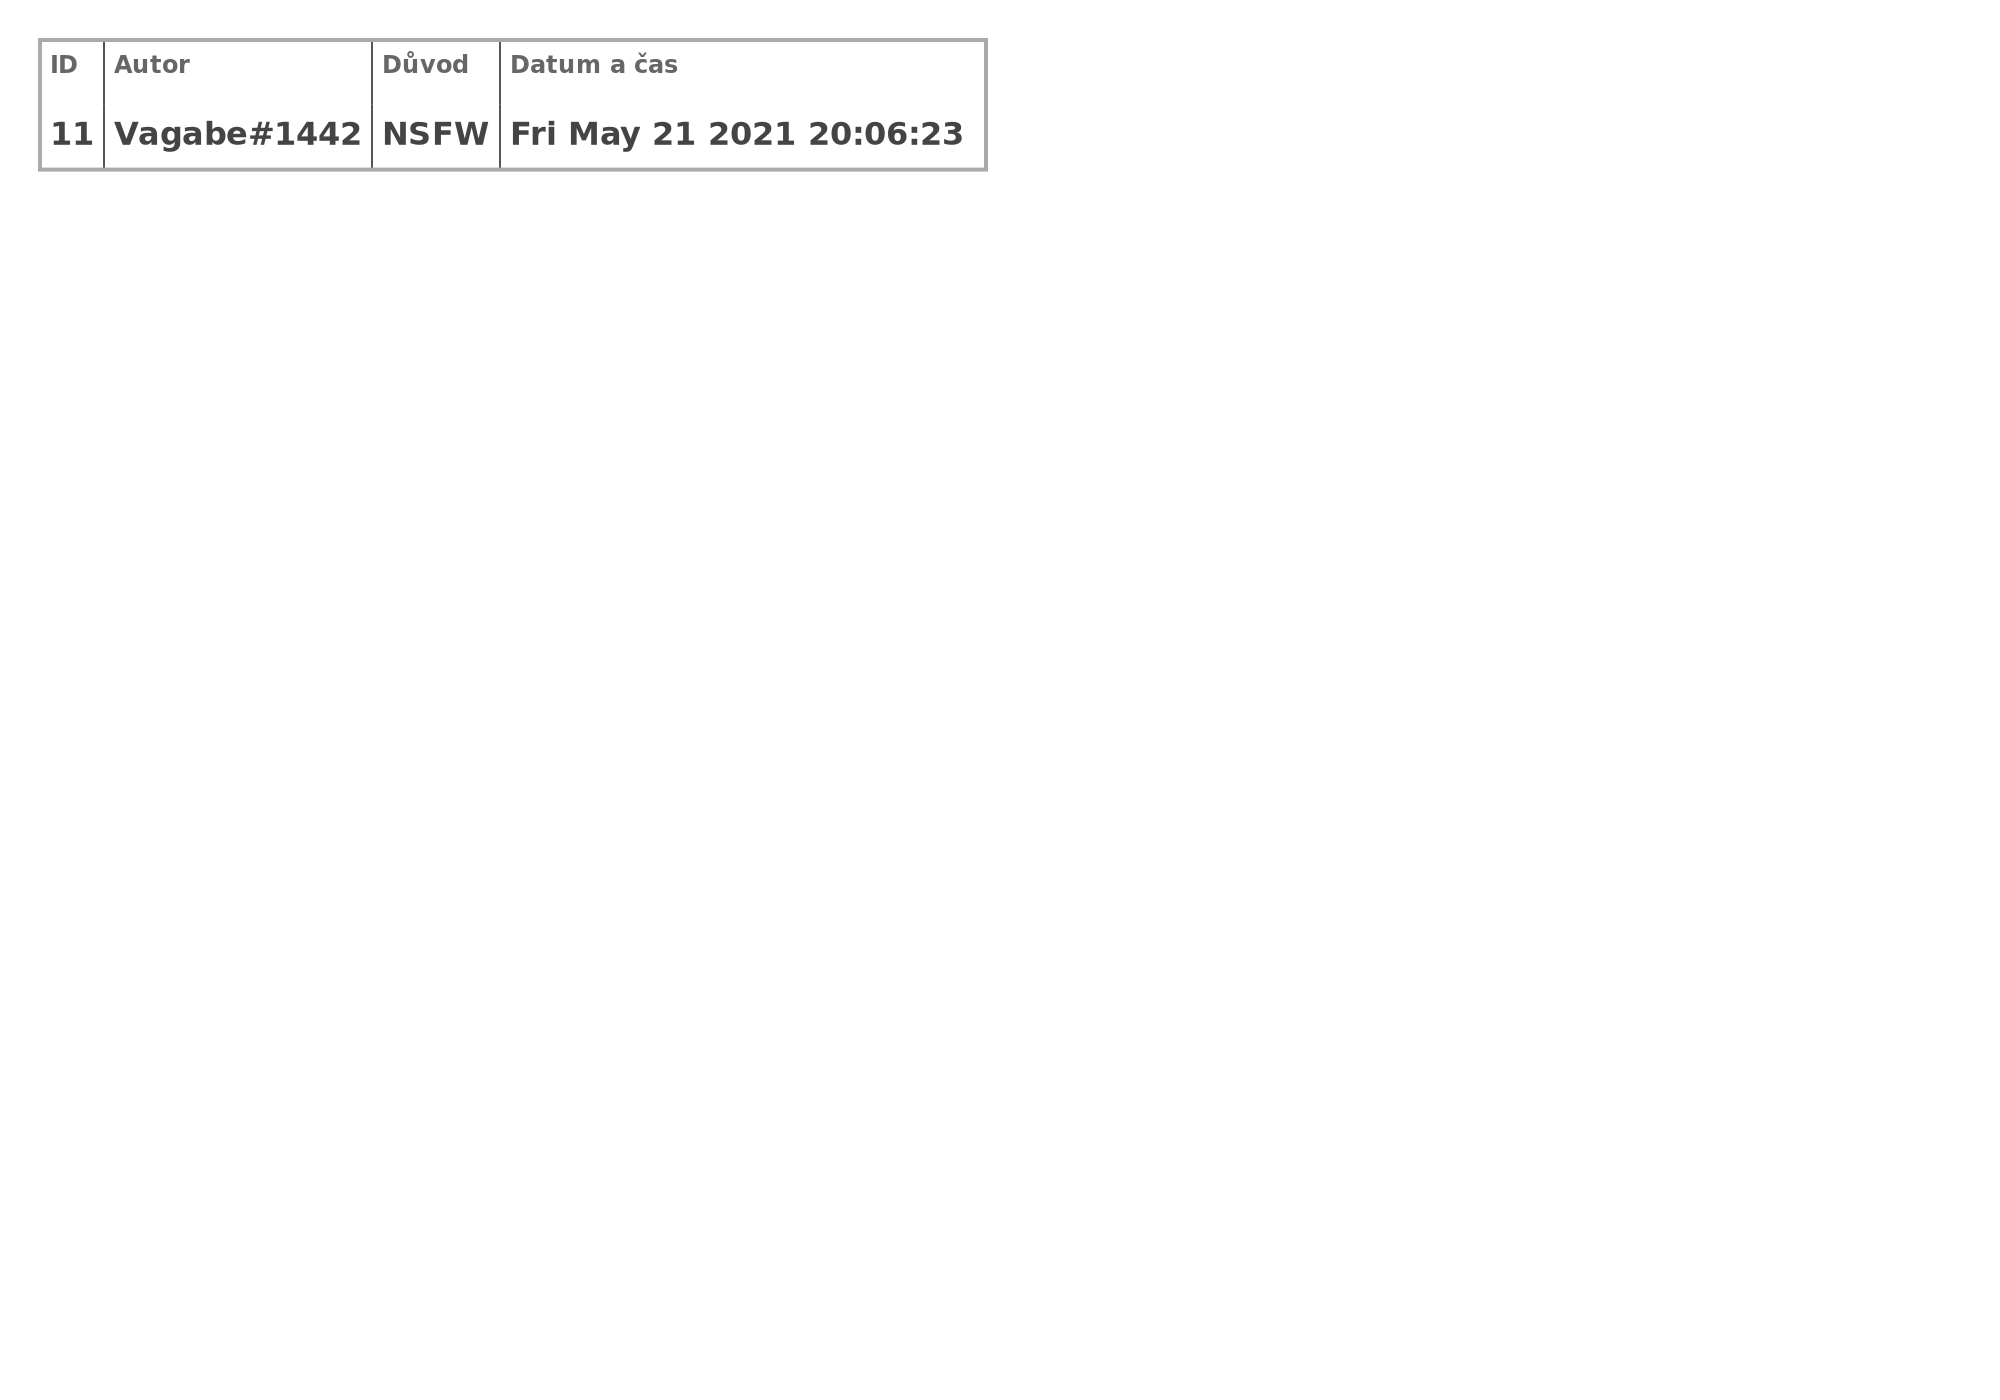
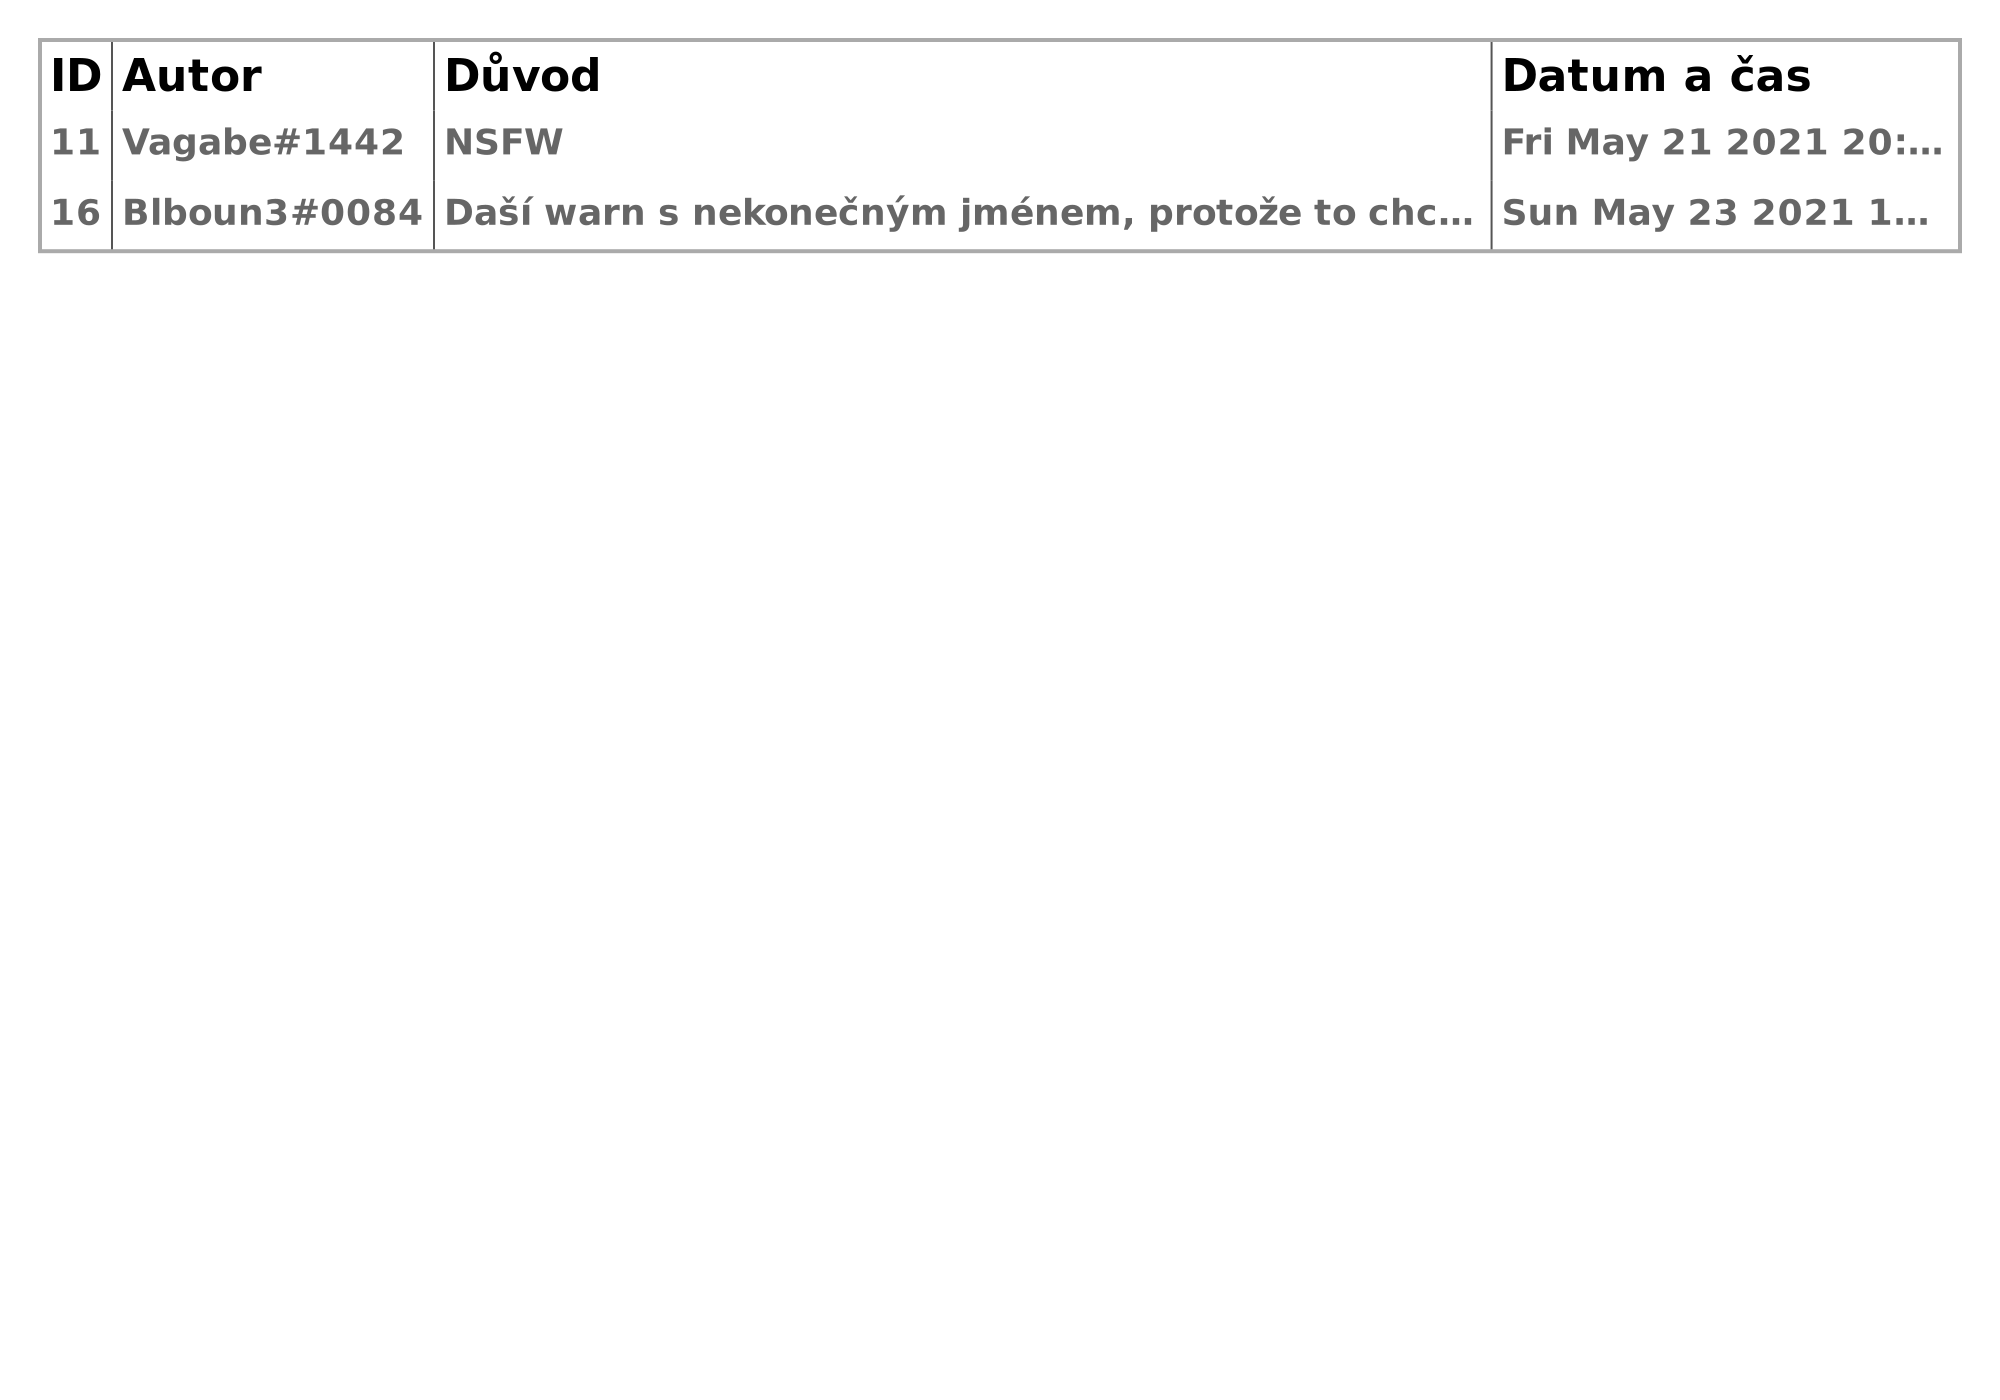
upravil jsem list-warns, místo textu posílá obrázek

Changed region(s): [[0.0, 0.0307, 0.992, 0.1843]]

diff --git a/ImageGeneration/Functions/lwarns.js b/ImageGeneration/Functions/lwarns.js
@@ -34,14 +34,35 @@ async function execute(datain, channel, client) {
         table: { width: 2, color: "#aaa" }
     },
     cell: {
-        fontSize: 16,
+        fontSize: 18,
         fontWeight: "bold",
         fontFamily: "sans-serif",
-        color: "#444444",
+        color: "#666666",
         lineHeight: 1.4,
         padding: 5,
-        textAlign: "left"
-    }
+        textAlign: "left",
+        multiline: true
+    },
+    title: {
+        fontSize: 22,
+        fontWeight: "bold",
+        fontFamily: "sans-serif",
+        color: "#666666",
+        lineHeight: 1,
+        multiline: true,
+        // text: "",
+        textAlign: "center"
+    },
+    header: {
+        fontSize: 22,
+        fontWeight: "bold",
+        fontFamily: "sans-serif",
+        color: "#000000",
+        lineHeight: 1.2,
+        multiline: true,
+        textAlign: "Center",
+        padding: 5
+    },
   }
   const ct = new tables.CanvasTable(canvas, { columns, data, options}); // Připravení k vytvoření tabulky
   await ct.generateTable();
